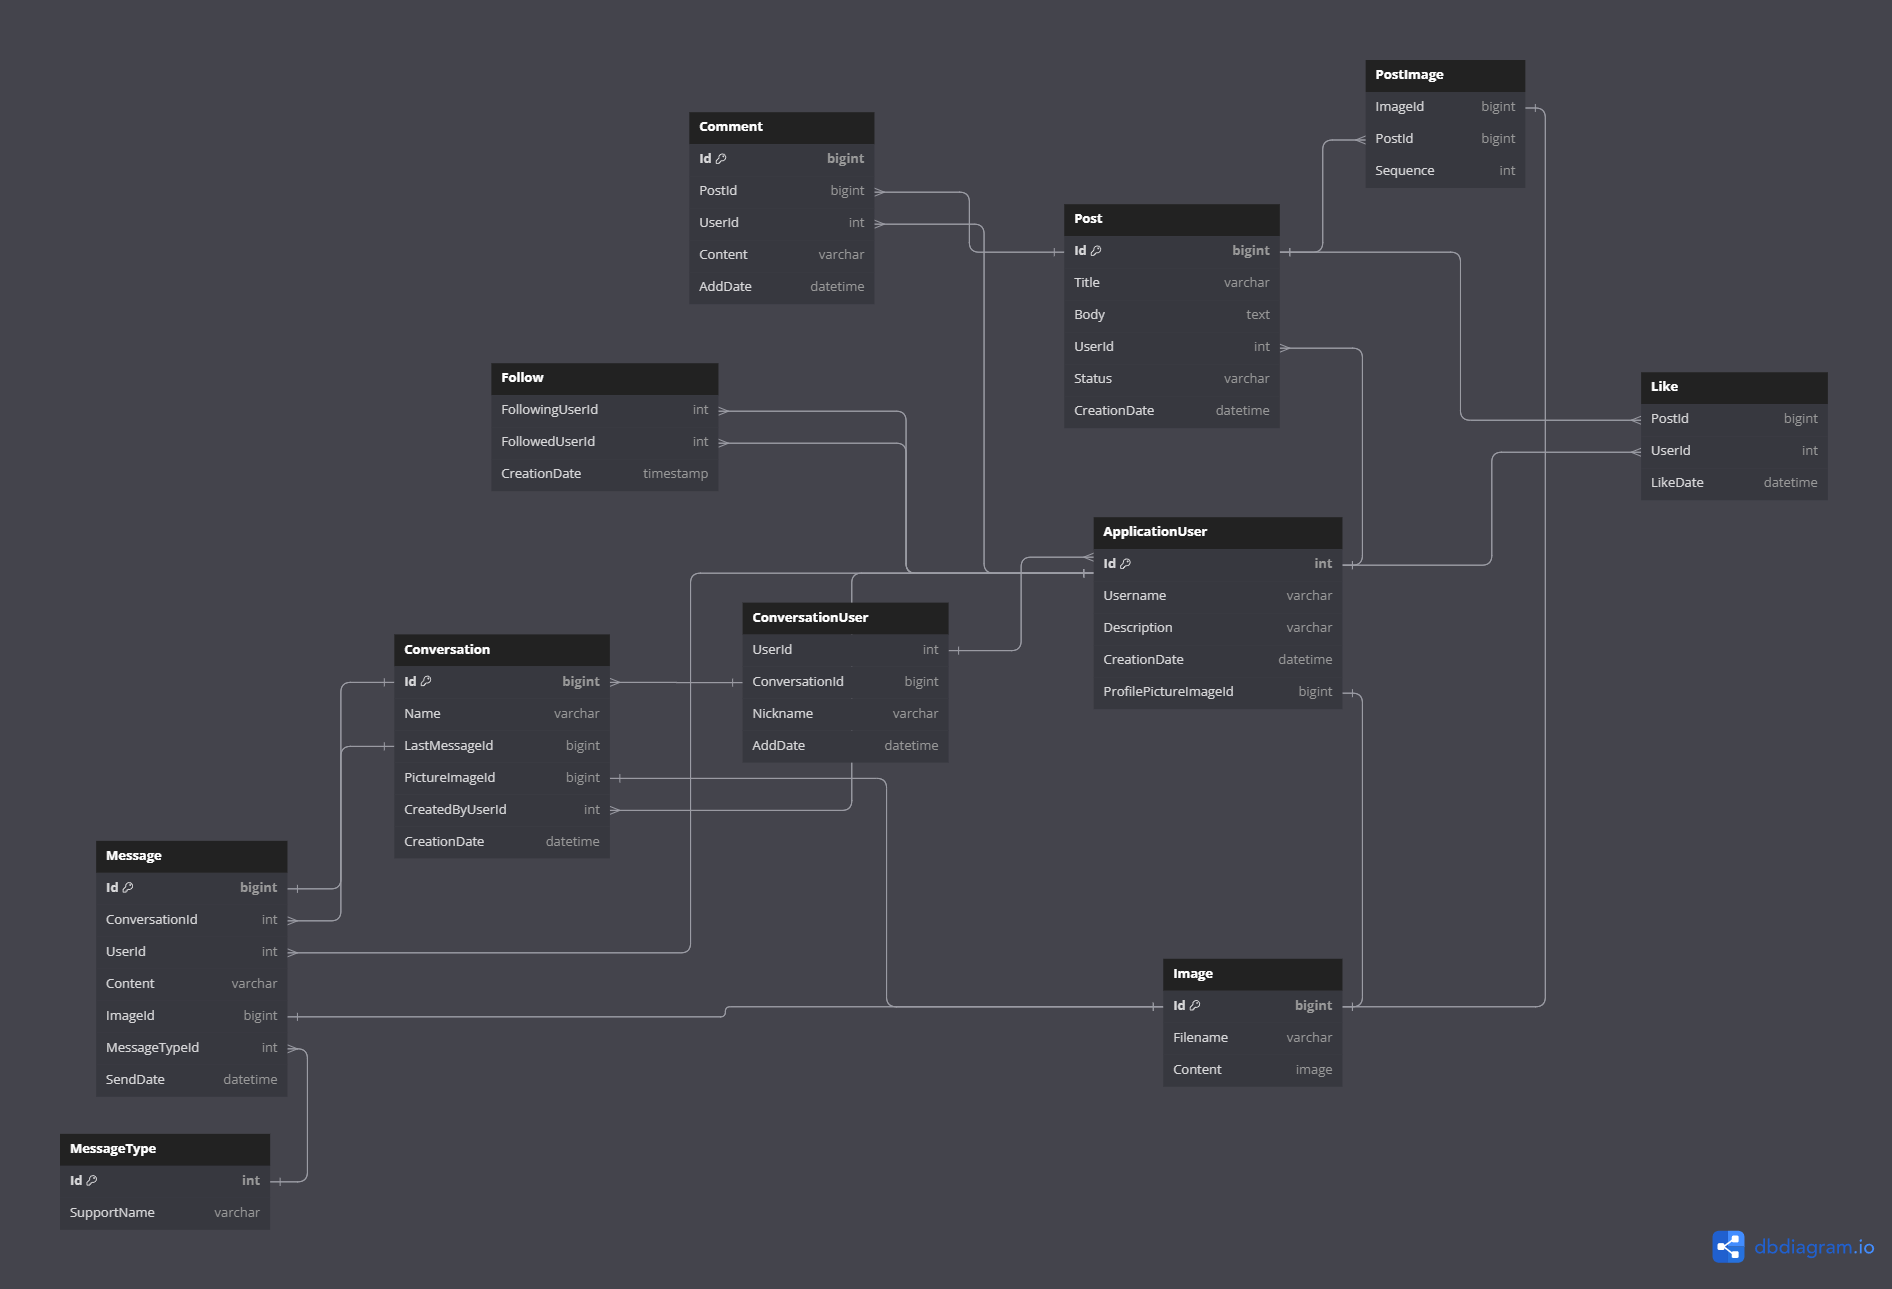
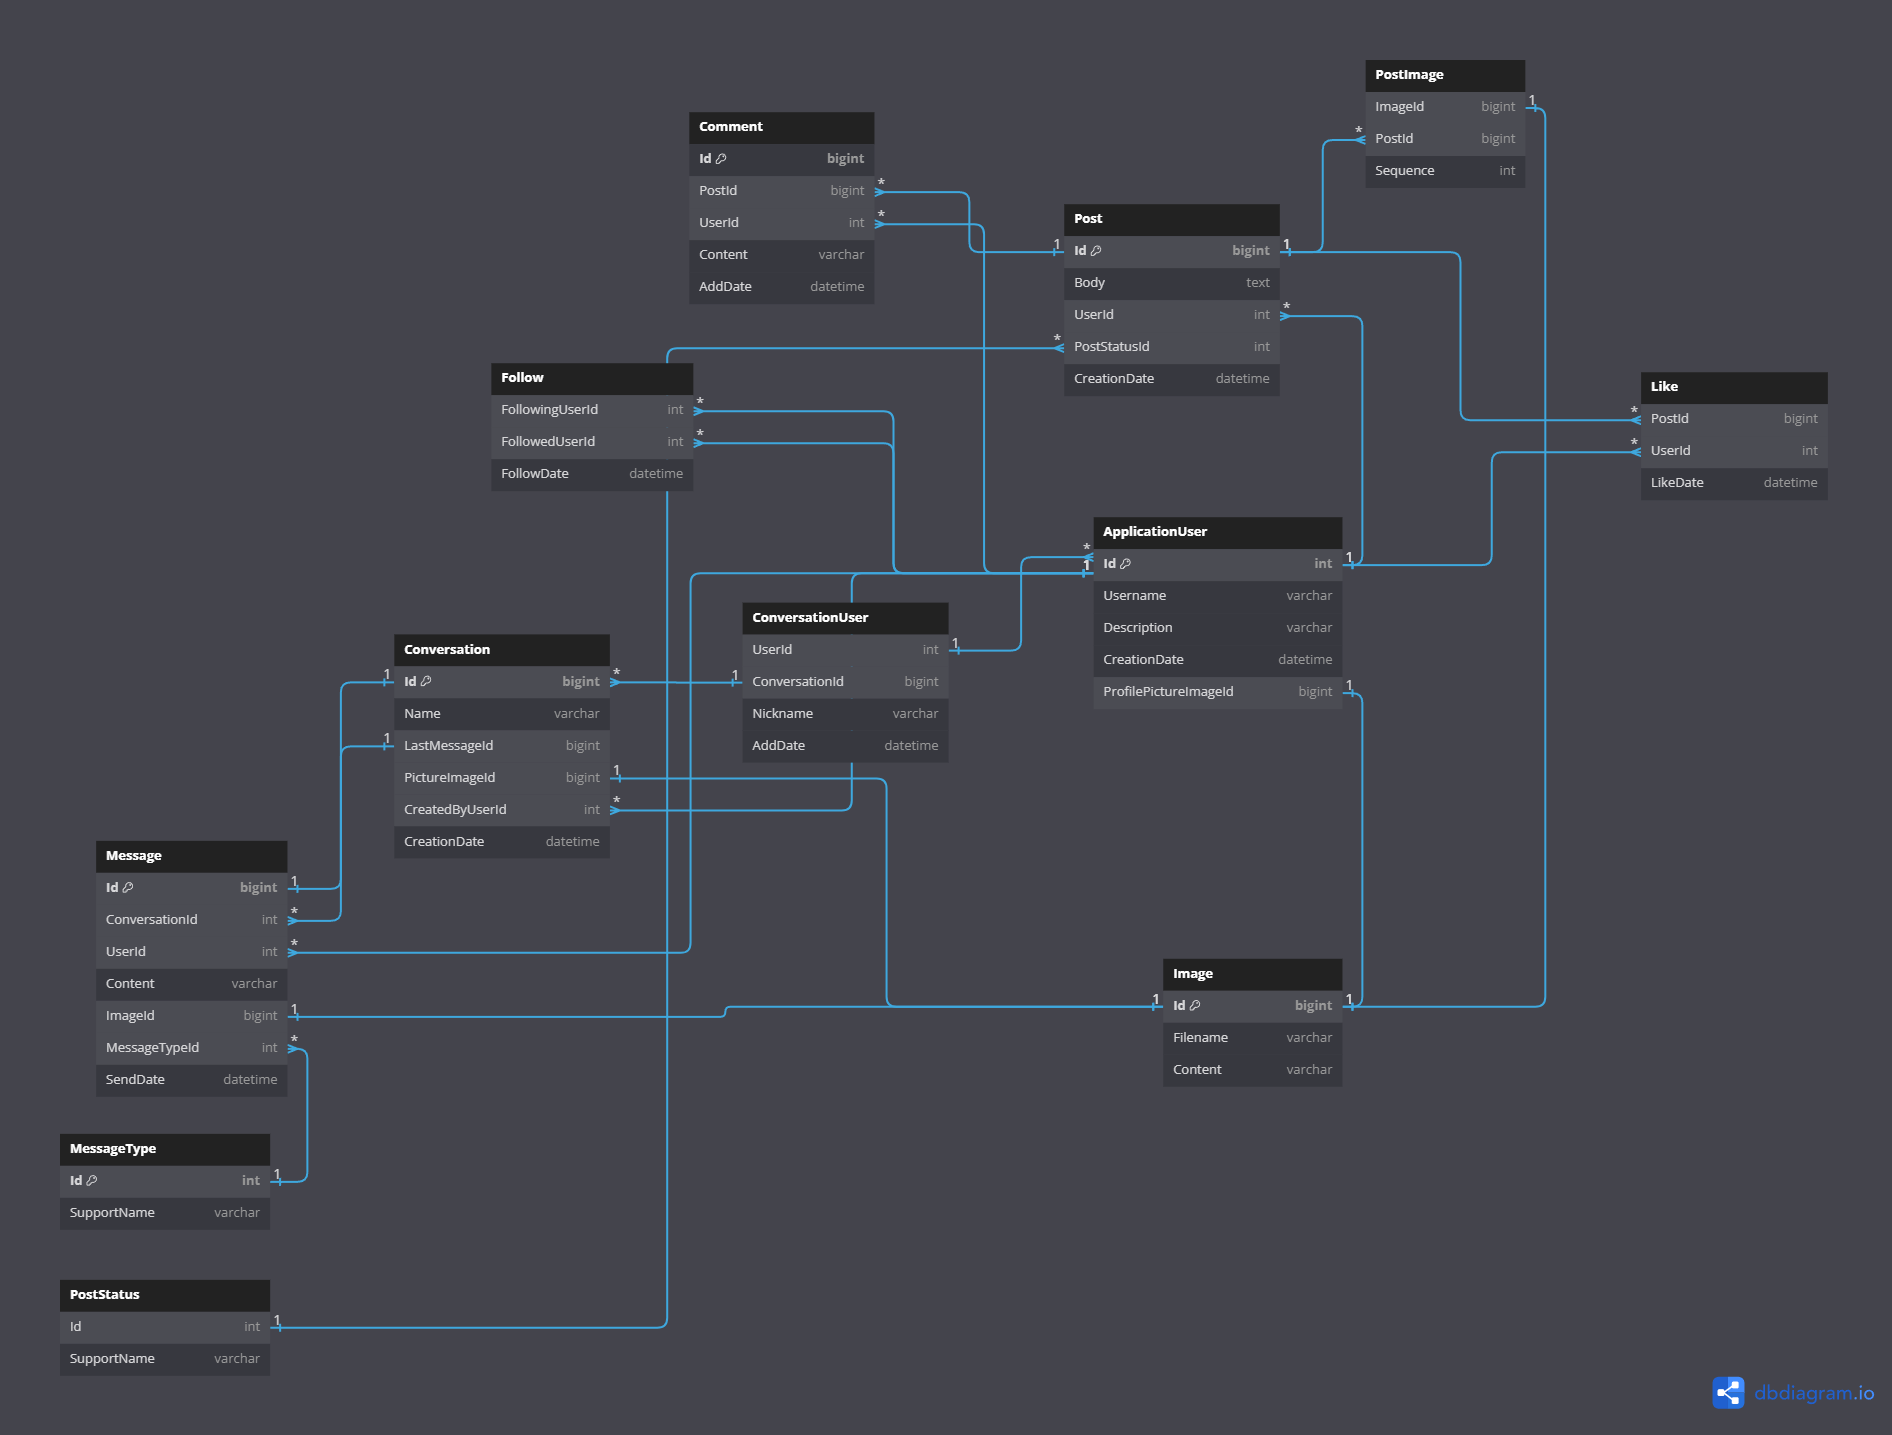
Encje, Enumy

diff --git a/Instagram/Domain/Entities/Message.cs b/Instagram/Domain/Entities/Message.cs
@@ -1,0 +1,13 @@
+namespace Domain.Entities
+{
+    public class Message
+    {
+        public long Id { get; set; }
+        public long ConversationId { get; set; }
+        public int UserId { get; set; }
+        public string Content { get; set; }
+        public long ImageId { get; set; }
+        public int MessageTypeId { get; set; }
+        public DateTime SendDate { get; set; }
+    }
+}

diff --git a/Instagram/Domain/Entities/Conversation.cs b/Instagram/Domain/Entities/Conversation.cs
@@ -1,0 +1,12 @@
+namespace Domain.Entities
+{
+    public class Conversation
+    {
+        public long Id { get; set; }
+        public string Name { get; set; }
+        public long LastMessageId { get; set; }
+        public long PictureImageId { get; set; }
+        public int CreatedByUserId { get; set; }
+        public DateTime CreationDate { get; set; }
+    }
+}

diff --git a/Instagram/Domain/Entities/ApplicationUser.cs b/Instagram/Domain/Entities/ApplicationUser.cs
@@ -1,0 +1,11 @@
+namespace Domain.Entities
+{
+    public class ApplicationUser
+    {
+        public int Id { get; set; }
+        public string Username { get; set; }
+        public string Description { get; set; }
+        public DateTime CreationDate { get; set; }
+        public long ProfilePictureId { get; set; }
+    }
+}

diff --git a/Instagram/Domain/Entities/Post.cs b/Instagram/Domain/Entities/Post.cs
@@ -1,0 +1,11 @@
+namespace Domain.Entities
+{
+    public class Post
+    {
+        public long Id { get; set; }
+        public string Body { get; set; }
+        public int UserId { get; set; }
+        public int PostStatusId { get; set; }
+        public DateTime CreationDate { get; set; }
+    }
+}

diff --git a/Instagram/Domain/Entities/Comment.cs b/Instagram/Domain/Entities/Comment.cs
@@ -1,0 +1,11 @@
+namespace Domain.Entities
+{
+    public class Comment
+    {
+        public long Id { get; set; }
+        public long PostId { get; set; }
+        public int UserId { get; set; }
+        public string Content { get; set; }
+        public DateTime AddDate { get; set; }
+    }
+}

diff --git a/Instagram/Domain/Entities/ConversationUser.cs b/Instagram/Domain/Entities/ConversationUser.cs
@@ -1,0 +1,10 @@
+namespace Domain.Entities
+{
+    public class ConversationUser
+    {
+        public int UserId { get; set; }
+        public long ConversationId { get; set; }
+        public string NickName { get; set; }
+        public DateTime AddDate { get; set; }
+    }
+}

diff --git a/Instagram/Domain/Entities/Follow.cs b/Instagram/Domain/Entities/Follow.cs
@@ -1,0 +1,9 @@
+namespace Domain.Entities
+{
+    public class Follow
+    {
+        public int FollowingUserId { get; set; }
+        public int FollewedUserId { get; set; }
+        public DateTime FollowDate { get; set; }
+    }
+}

diff --git a/Instagram/Domain/Entities/PostImage.cs b/Instagram/Domain/Entities/PostImage.cs
@@ -1,0 +1,9 @@
+namespace Domain.Entities
+{
+    public class PostImage
+    {
+        public long ImageId { get; set; }
+        public long PostId { get; set; }
+        public int Sequence { get; set; }
+    }
+}

diff --git a/Instagram/Domain/Enums/EntityEnums.cs b/Instagram/Domain/Enums/EntityEnums.cs
@@ -1,0 +1,14 @@
+namespace Domain.Enums
+{
+    public enum PostStatus
+    {
+        Visible = 0,
+        Archived = 1,
+    }
+
+    public enum MessageType
+    {
+        Text = 0,
+        Image = 1,
+    }
+}

diff --git a/Instagram/Domain/Entities/Like.cs b/Instagram/Domain/Entities/Like.cs
@@ -1,0 +1,9 @@
+namespace Domain.Entities
+{
+    public class Like
+    {
+        public long PostId { get; set; }
+        public int UserId { get; set; }
+        public DateTime LikeDate { get; set; }
+    }
+}

diff --git a/Instagram/Domain/Entities/Image.cs b/Instagram/Domain/Entities/Image.cs
@@ -1,0 +1,9 @@
+namespace Domain.Entities
+{
+    public class Image
+    {
+        public int Id { get; set; }
+        public string Filename { get; set; }
+        public string Content { get; set; }
+    }
+}

diff --git a/Instagram/WebAPI/Program.cs b/Instagram/WebAPI/Program.cs
@@ -14,8 +14,6 @@ var logger = new LoggerConfiguration()
 builder.Logging.ClearProviders();
 builder.Logging.AddSerilog(logger);
 
-
-
 // Add services to the container.
 
 builder.Services.AddControllers();
